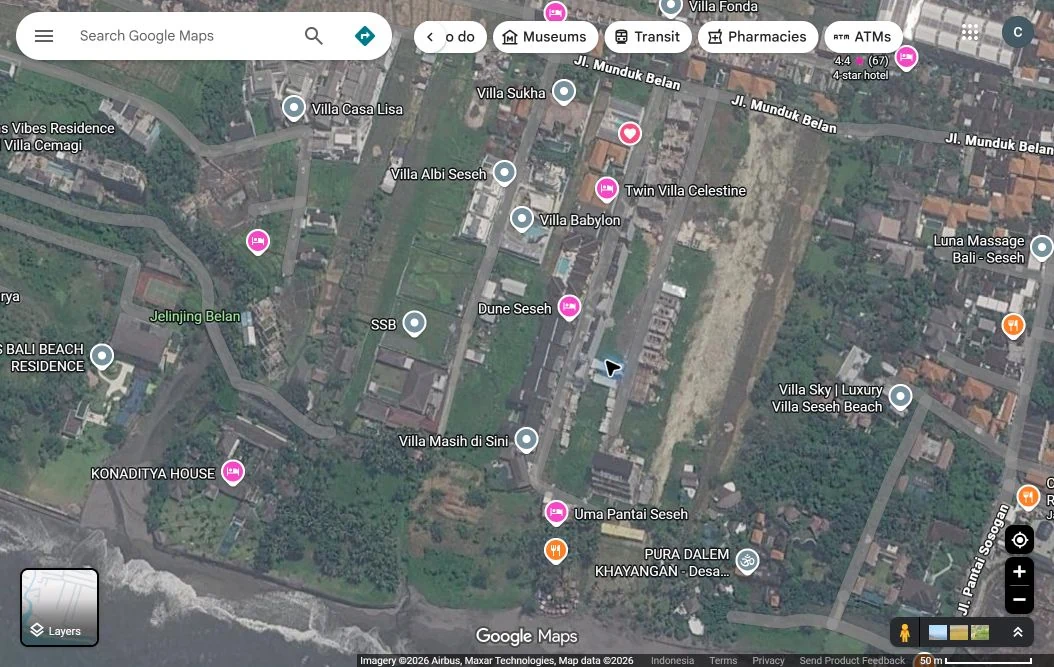
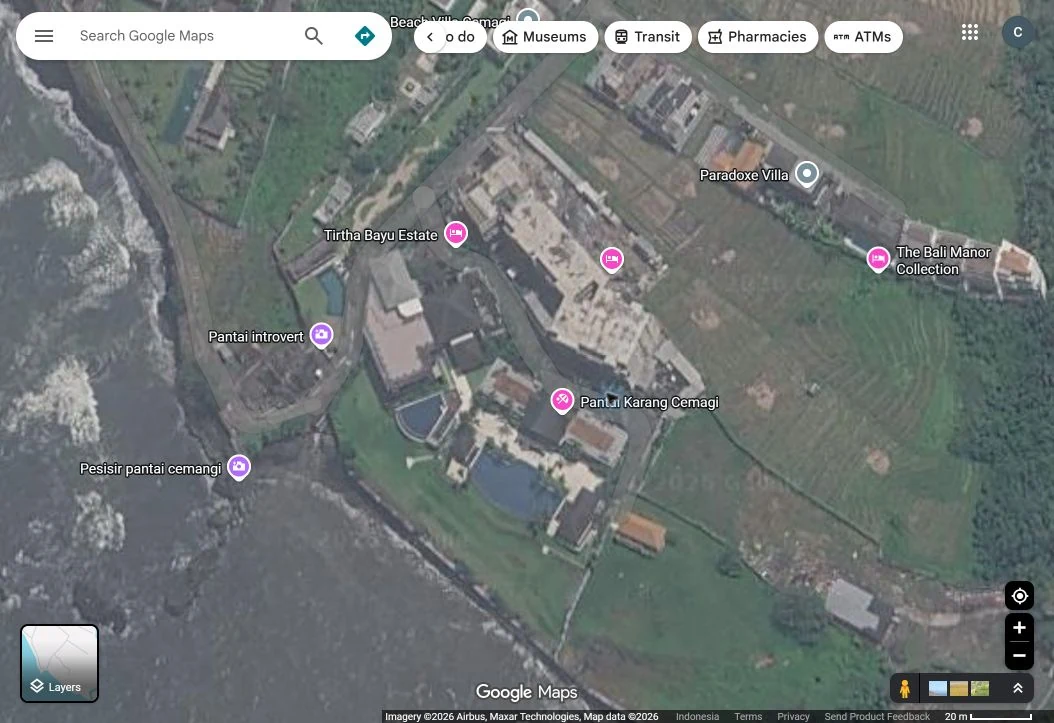
Correct Seseh plot location and boundary

diff --git a/projecten/seseh-boutique-villas/index.html b/projecten/seseh-boutique-villas/index.html
@@ -26,7 +26,7 @@
       href="https://fonts.googleapis.com/css2?family=Manrope:wght@400;500;600;700;800&family=Playfair+Display:wght@600;700;800&display=swap"
       rel="stylesheet"
     />
-    <link rel="stylesheet" href="/styles.css?v=20260710-4" />
+    <link rel="stylesheet" href="/styles.css?v=20260710-5" />
     <script type="application/ld+json">{"@context": "https://schema.org", "@type": "Product", "name": "Seseh Plot 12 Boutique Villas", "description": "Kritische projectinformatie over Seseh Plot 12 Boutique Villas in Seseh, Bali: prijsindicatie, juridische structuur, verhuurpotentie, risico’s en rendementsscenario.", "image": "https://www.investinbali.nl/assets/projects/seseh-plot-12/seseh-plot-12-render-01.webp", "url": "https://www.investinbali.nl/projecten/seseh-boutique-villas/", "brand": {"@type": "Organization", "name": "Invest in Bali", "url": "https://www.investinbali.nl/"}, "category": "Bali vastgoed - Project", "additionalProperty": [{"@type": "PropertyValue", "name": "Locatie", "value": "Seseh, Bali"}, {"@type": "PropertyValue", "name": "Juridische structuur", "value": "Leasehold of PT PMA-structuur, projectspecifiek te bevestigen"}, {"@type": "PropertyValue", "name": "Leasehold resterend", "value": "27 jaar leasehold indicatief, waarvan circa 26 jaar verhuurexploitatie na bouwjaar"}, {"@type": "PropertyValue", "name": "Zoning status", "value": "Tourist pink zone volgens projectinformatie"}, {"@type": "PropertyValue", "name": "Vergunningenstatus", "value": "Constructietekeningen gereed volgens projectinformatie; vergunningen te controleren"}, {"@type": "PropertyValue", "name": "Due-diligence status", "value": "Projectinformatie beschikbaar; juridische en financiële controle nog vereist"}, {"@type": "PropertyValue", "name": "Bruto rendement indicatief", "value": "11-15% netto rendement indicatief volgens projectsimulatie"}, {"@type": "PropertyValue", "name": "Netto scenario", "value": "Indicatief netto rendement 11,0-14,4% per jaar afhankelijk van bezetting"}], "offers": {"@type": "Offer", "priceCurrency": "EUR", "priceSpecification": {"@type": "PriceSpecification", "description": "Prijs op aanvraag"}, "availability": "https://schema.org/InStock", "url": "https://www.investinbali.nl/projecten/seseh-boutique-villas/"}}</script>
       <link rel="icon" href="/assets/logo-variations/villa-gate-variant-01-balanced-door.svg" type="image/svg+xml" />
   </head>
@@ -108,11 +108,22 @@
           </div>
           <figure class="seseh-map-card">
             <div class="seseh-map-image">
-              <img src="/assets/projects/seseh-plot-12/site/location-satellite.webp" alt="Satellietkaart met de ligging van Seseh Plot 12 ten opzichte van de kust" loading="lazy" decoding="async" width="1054" height="667" />
+              <img src="/assets/projects/seseh-plot-12/site/location-satellite.webp" alt="Satellietkaart gecentreerd op Seseh Plot 12 met de nabijgelegen kustlijn" loading="lazy" decoding="async" width="1054" height="723" />
               <span class="seseh-map-marker"><span aria-hidden="true"></span>Plot 12</span>
             </div>
-            <figcaption>Satellietweergave van de aangewezen plotpositie ten opzichte van de kustlijn van Seseh.</figcaption>
+            <figcaption>Overzichtskaart gecentreerd op de aangewezen plotpositie, met de kustlijn van Seseh direct in beeld.</figcaption>
           </figure>
+          <div class="seseh-plot-detail">
+            <figure class="seseh-plot-boundary-card">
+              <img src="/assets/projects/seseh-plot-12/site/plot-boundary.webp" alt="Rood gemarkeerde perceelgrens van Seseh Plot 12" loading="lazy" decoding="async" width="582" height="1128" />
+              <figcaption>Exacte plotgrens rood gemarkeerd</figcaption>
+            </figure>
+            <div class="seseh-plot-detail-copy">
+              <div class="seseh-kicker">Exact plot</div>
+              <h3>De gemarkeerde kavel</h3>
+              <p>De rode contour toont de aangewezen perceelgrens. De overzichtskaart hierboven gebruikt het midden van deze plot als marker, zodat de ligging ten opzichte van de kust correct wordt weergegeven.</p>
+            </div>
+          </div>
         </div>
       </section>
 

diff --git a/styles.css b/styles.css
@@ -1290,8 +1290,8 @@ h2 {
 
 .seseh-map-marker {
   position: absolute;
-  top: 55%;
-  left: 58%;
+  top: 50%;
+  left: 50%;
   display: inline-flex;
   align-items: center;
   gap: 7px;
@@ -1319,6 +1319,49 @@ h2 {
   color: #45534a;
   font-size: 0.82rem;
   font-weight: 700;
+}
+
+.seseh-plot-detail {
+  display: grid;
+  grid-template-columns: minmax(260px, 360px) minmax(0, 1fr);
+  align-items: center;
+  gap: 34px;
+  margin-top: 28px;
+}
+
+.seseh-plot-boundary-card {
+  margin: 0;
+  overflow: hidden;
+  border: 1px solid rgba(44, 54, 47, 0.13);
+  border-radius: 8px;
+  background: #fff;
+  box-shadow: 0 16px 40px rgba(27, 33, 28, 0.07);
+}
+
+.seseh-plot-boundary-card img {
+  display: block;
+  width: 100%;
+  height: auto;
+}
+
+.seseh-plot-boundary-card figcaption {
+  padding: 13px 15px;
+  color: #45534a;
+  font-size: 0.82rem;
+  font-weight: 700;
+}
+
+.seseh-plot-detail-copy h3 {
+  margin: 8px 0 12px;
+  color: #20352a;
+  font-size: clamp(1.5rem, 3vw, 2.35rem);
+}
+
+.seseh-plot-detail-copy p {
+  max-width: 620px;
+  margin: 0;
+  color: #59625b;
+  line-height: 1.75;
 }
 
 .seseh-plan-grid {
@@ -1479,6 +1522,10 @@ h2 {
 
   .seseh-location-grid .seseh-media-card:last-child img {
     height: auto;
+  }
+
+  .seseh-plot-detail {
+    grid-template-columns: 1fr;
   }
 
   .seseh-walkthrough {
